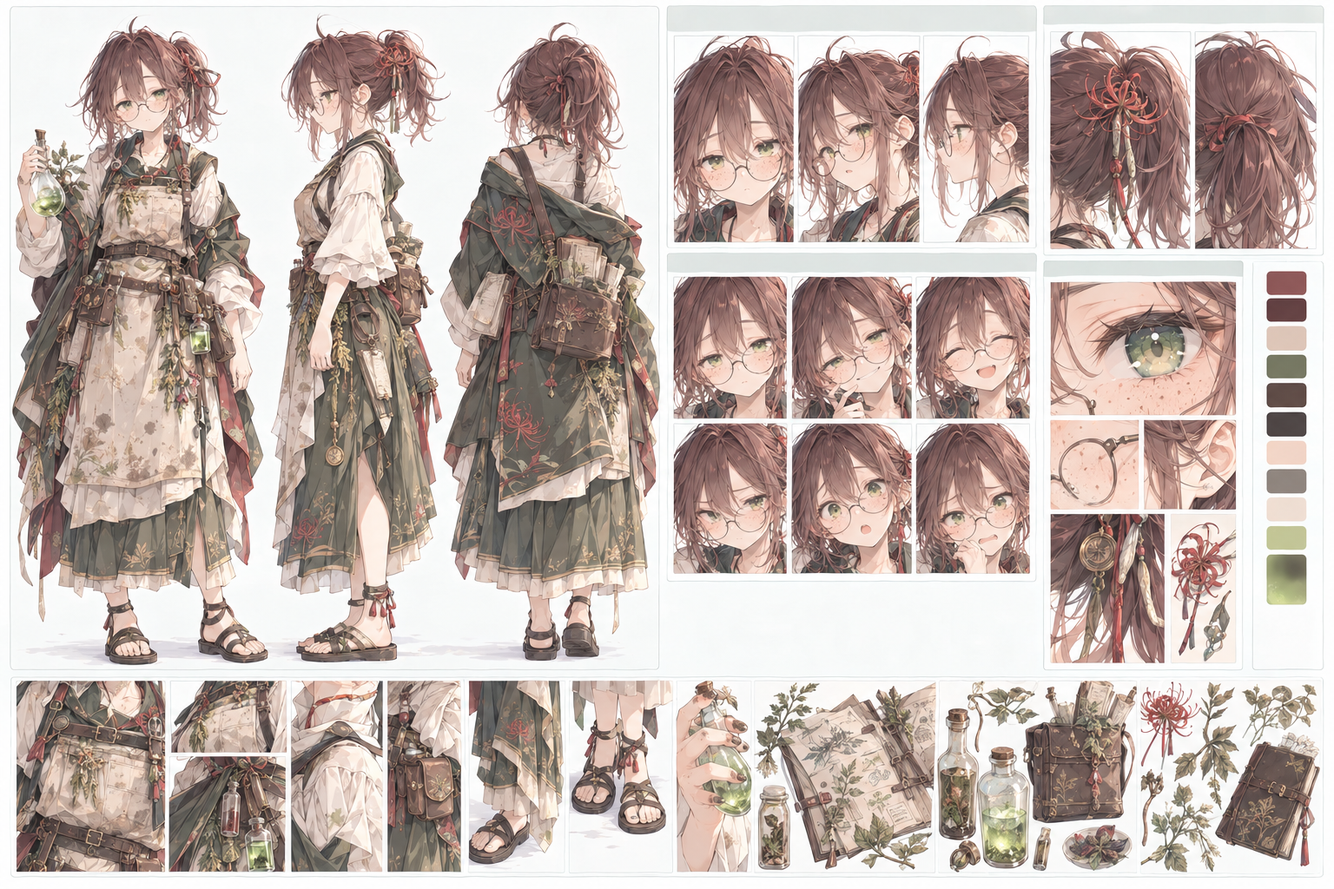
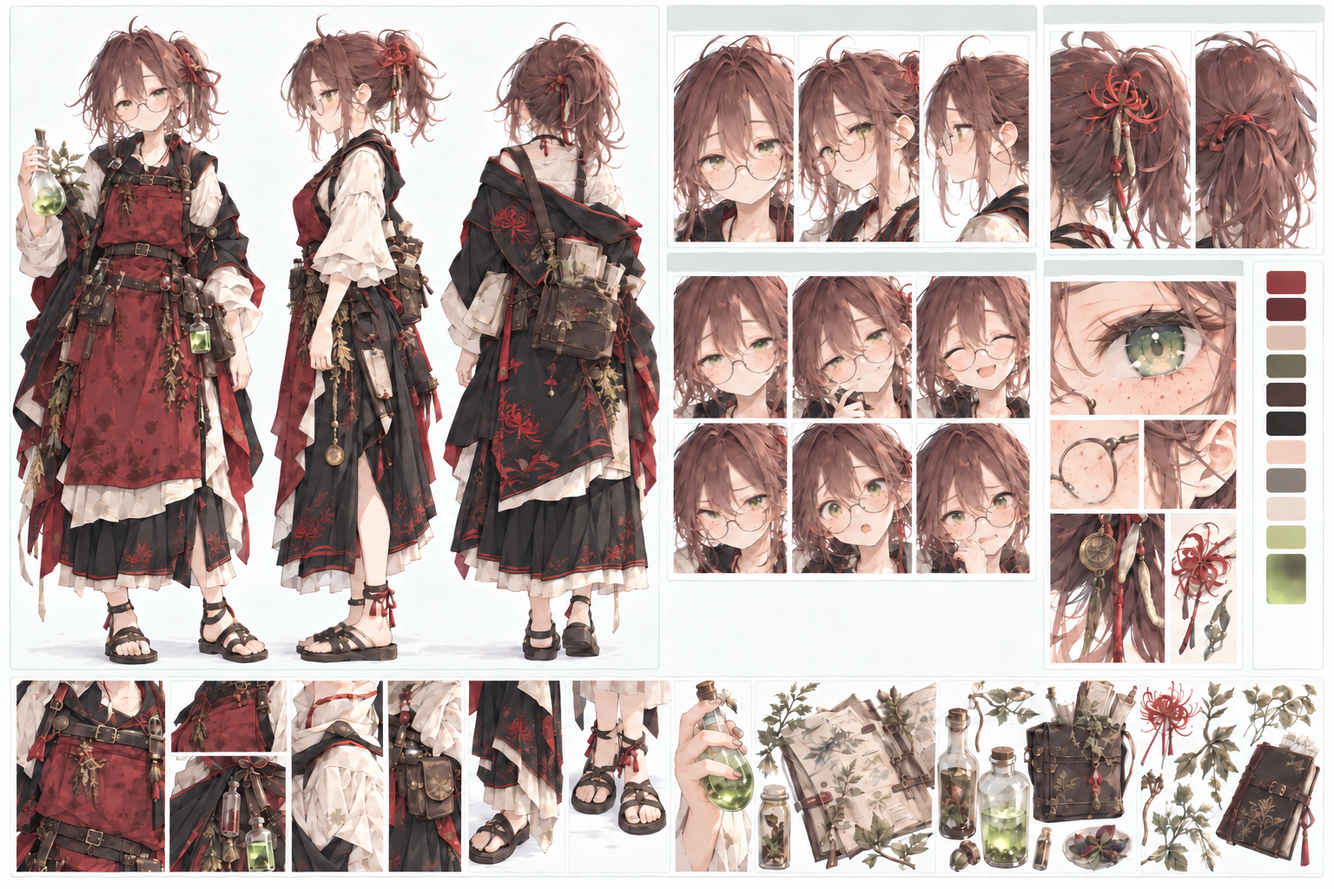
リコの衣装を赤・黒に統一し、第四章の採用スチル4枚を登録 (#171)
* art: unify Lico red-black palette and add chapter four still

* 第四章の採用スチル4枚と制作記録を揃える

diff --git a/docs/art/chapter-four-stills.md b/docs/art/chapter-four-stills.md
@@ -1,22 +1,50 @@
-# 第四章のスチル候補
+# 第四章のスチル制作
 
 [アート・音](README.md) · [スチル制作記録](story-art.md) · [第四章計画](../story/story-part-4.md) · [詳細台本](../story/chapter-four-script.md)
 
-制作候補。画像は未制作で、画像ファイル名・保存用シーンID・表示行番号はまだ割り当てない。第四章のゲーム実装時に、以下の動作へ到達したところから表示する。絵を先に見せて、登場や距離の変化を明かさない。
+優先する4場面すべてを採用し、原本・鑑賞用WebP・サムネイルを保存した。保存用シーンID・表示行番号はまだ割り当てず、第四章のゲーム実装時に、以下の動作へ到達したところから表示する。絵を先に見せて、登場や距離の変化を明かさない。
 
-## 優先する4場面
+## 4-7の採用画像
+
+![赤と黒の衣装のリコが苗の籠を抱えて道をふさぎ、食料を背負ったメリルが手を伸ばす。](../../public/stories/lico-protects-seedlings.webp)
+
+キャラクター紹介としても外見を読み取れるよう、構図候補01の二人の全身が見える横構図を採用。左にメリル、右にリコを置き、足元まで収める。リコは赤・黒の新しい衣装に揃え、メリルは太ももとふくらはぎの厚みを増した。背景に運搬路と荷車を残す。
+
+原本は `assets/source/stories/lico-protects-seedlings.png`（1536×1024）。[共通の制作記録](story-art.md#第四章のスチル制作)と[生成プロンプト・参照画像・ハッシュ](../art-generation/chapter-four-stills.json)を参照。ゲームの会話・アルバムにはまだ接続していない。
+
+## 4-4の採用画像：徹夜明けのミラ
+
+![宿の広間で、髪と服が乱れた徹夜明けのミラをフィンとアリアが心配する。](../../public/stories/mira-after-all-nighter.webp)
+
+構図02を基に再生成した屋内版v3を採用。ミラのほどけた髪、服の皺、疲れた顔と、心配する二人の表情を重視した。アリアは屋内の椅子を引き寄せる。原本は `assets/source/stories/mira-after-all-nighter.png`。
+
+## 4-4の採用画像：青い布の陰
+
+![アリアが右手で青い布を広げ、左腕をレオンの右腕へ回して身を寄せ、二人で通りをうかがう。](../../public/stories/blue-cloth-alley.webp)
+
+v13を採用。v9の腰上構図を保ち、右手は布、左腕はレオンの右腕へ回し、狭い陰に収まるための密着を見せる。二人は布の隙間へ視線を向け、レオンの戸惑いを残す。両肩の銀の防具と、淡く軽い髪の塗りを保つ。原本は `assets/source/stories/blue-cloth-alley.png`。
+
+## 4-9の採用画像：旅団結成
+
+![受付の机でアリアが旅団の登録書へ署名し、レオン、ミラ、フィン、リコが見守る。](../../public/stories/guild-formation.webp)
+
+構図04を採用。左手前のアリアが署名し、左奥のレオン、中央のミラ、右奥のフィン、右手前のリコが同じ書類を囲む。五人それぞれの表情と、隣り合う代表・副代表欄を重視する。リコは赤・黒の衣装。原本は `assets/source/stories/guild-formation.png`。
+
+以上の3枚も1536×1024。各採用版の生成プロンプト・参照画像・ハッシュは[共通の生成記録](../art-generation/chapter-four-stills.json)に保存する。
+
+## 採用した4場面
 
 | 場面 | 絵にする瞬間 | 構図・人物の演技 |
 | --- | --- | --- |
-| 4-7・苗を守るリコ | 「リコは籠を引き寄せ、胸に抱えてメリルの前へ立った」 | 苗の籠を抱えたリコが手前で通せんぼし、メリルがその向こうから籠を狙う。苗を守る真剣さと、食べ物へ向かうメリルの無邪気な視線を対置する。ほかの仲間の運搬路を背後に残し、リコが初めて彼らの側に立つことを伝える。メリルを耳へ襲いかかる姿や残虐な敵の顔にはしない |
-| 4-4・青い布の陰 | 「アリアの髪の先が、レオンの肩にかかる」 | 細い通路と干された青い布。袖を引いたアリアとレオンが同じ布の陰に収まり、普段より近い肩と、肩に触れる髪の先を見せる。路地の外へ視線を向けつつ互いの距離にも気づく間。抱擁や告白にはせず、布の隙間の荷車・御者で隠れた理由も読めるようにする |
-| 4-4・まだ大丈夫と言うミラ | 「フィンがミラの顔をのぞく。アリアは空いている椅子を引き寄せた」から、ミラの「私は、まだ大丈夫よ」 | 夜明けの宿の前。ミラは乱れた髪、落ちた肩、顔の疲れに対して目だけは冴え、次の往診メモへ手を伸ばしかける。フィンは顔をのぞいて眉を寄せ、アリアは椅子と鞄を気にかける。「大丈夫には見えない」という二人の心配を、嘲笑ではなく動作で見せる。倒れる姿や酔った赤ら顔にはしない。若い外見は採用設定を維持する |
+| 4-7・苗を守るリコ | 「リコは籠を引き寄せ、胸に抱えてメリルの前へ立った」 | 全身構図を採用。右のリコが苗の籠を抱えて通せんぼし、左のメリルが籠を狙う。苗を守る真剣さと、食べ物へ向かうメリルの無邪気な視線を対置する。ほかの仲間の運搬路を背後に残し、リコが初めて彼らの側に立つことを伝える。メリルを耳へ襲いかかる姿や残虐な敵の顔にはしない |
+| 4-4・青い布の陰 | 「アリアは右手で風に膨らんだ布を押さえ直し、彼の腕を抱き寄せたまま隙間をのぞく」 | v13を採用。細い通路と青い布の陰で、アリアの左腕がレオンの右腕を抱き寄せる。右手で布を広げて姿を隠し、二人とも外をうかがう。追跡中の近さへの戸惑いを見せ、告白の場面にはしない。両肩の防具、左右の手の向き、淡く軽い髪の塗りを保つ |
+| 4-4・まだ大丈夫と言うミラ | 「フィンがミラの顔をのぞく。アリアは空いている椅子を引き寄せた」から、ミラの「私は、まだ大丈夫よ」 | 屋内の構図02・再生成v3を採用。夜明け前の宿の玄関広間。ミラはほどけかけた髪、服の皺、落ちた肩、顔の疲れに対して目だけは冴え、次の往診メモへ手を伸ばしかける。フィンは顔をのぞいて眉を寄せ、アリアは椅子を引き寄せる。倒れる姿や酔った赤ら顔にはしない。若い外見は採用設定を維持する |
 | 4-9・星灯りの旅団の結成 | 「アリアが隣の代表者欄へ名前を書く」 | 受付の机を囲む五人。署名するアリア、その隣で筆先を見守るレオン、向こうから覗くミラとフィン、自分の記入欄を気にするリコ。主役は二人の並ぶ名前と、それを囲む五人が同じ集まりになる瞬間。名前決めを済ませて来た順序を守り、乾杯は同じ絵に混ぜない。書類は文字の正確な生成に依存せず、隣り合う欄と手の位置で意味を伝える。正式名「星灯りの旅団」は会話で読める |
 
 ## 描画時の共通事項
 
 - 外見は各人物の採用リファレンスを正とする：[アリア](../characters/aria.md)、[レオン](../characters/leon.md)、[ミラ](../characters/mira.md)、[フィン](../characters/finn.md)、[リコ](../characters/lico.md)、[メリル](../characters/merrill.md)。
-- リコはそばかす、丸眼鏡、小柄だが華奢すぎない体、作業用の前掛けとサンダルを保つ。メリルは頭から生える石榴の花と赤いリボン、左腕だけの琴のガントレットを保つ。
+- リコはそばかす、丸眼鏡、小柄だが華奢すぎない体、赤・黒基調の衣装、作業用の前掛けとサンダルを保つ。メリルは頭から生える石榴の花と赤いリボン、厚みのある太もも・ふくらはぎ、左腕だけの琴のガントレットを保つ。
 - 感情を説明する文字、ハート、吹き出しを絵へ足さない。アリアとレオンの親しさは視線・肩・手・距離で示す。
 - 制作・採用後にのみ、生成記録と共通の画像一覧・表示設定へ登録する。構図を実際の表示サイズで確認し、台本の動作と絵を一致させる。
 

diff --git a/docs/characters/lico.md b/docs/characters/lico.md
@@ -72,7 +72,7 @@
 
 ![リコのリファレンスシート](lico-reference-sheet.webp)
 
-ユーザー提供のリファレンスシートを外見・衣装の基準として採用する。全身の正面・側面・背面、顔の角度と表情、髪・瞳・衣装・手元・小物の拡大図、色見本を収める。提供PNGの1536×1024pxを維持し、画素を変えないロスレスWebPで保存した。
+ユーザー提供のリファレンスシートを基に、2026-09-25の指定で衣装を赤・黒基調へ更新した。全身の正面・側面・背面、顔の角度と表情、髪・瞳・衣装・手元・小物の拡大図、色見本を収める。配色更新後の1536×1024pxのPNGをロスレスWebPで保存した。顔立ち、そばかす、丸眼鏡、髪型、衣装の形は維持する。[配色更新の生成記録](../art-generation/lico-red-black-generation.json)を参照する。
 
 人物設定と表情の意図は、本資料に反映したユーザーの指定文を正とする。シートの整った顔や明るい笑顔だけを強めず、下記の素朴さと癖を保つ。
 
@@ -87,7 +87,7 @@
 
 - 髪は赤みのある暗い茶色〜くすんだ赤紫。短めのポニーテールを低め〜中くらいの位置で軽く結び、寝癖・後れ毛・跳ねた毛を残す。身なりには無頓着で、きっちり整えない。
 - 彼岸花を思わせる赤い髪飾り・結び紐・衣装の意匠を自然なアクセントにする。モチーフを増やしすぎて華美にしない。
-- 素朴でラフな薬草・錬金術師の服に、**作業用の前掛け（エプロン）**を着ける。野外採取と簡単な調薬の両方に合う実用的な装い。前掛けは多少の使用感に留め、薬のしみや汚れを強調しすぎない。
+- 素朴でラフな薬草・錬金術師の服に、**深紅の作業用の前掛け（エプロン）**を着ける。上着とスカートは炭黒、裏地・紐・彼岸花の刺繍は赤。生成りのブラウスと裾は補助色として残す。野外採取と簡単な調薬の両方に合う実用的な装い。前掛けは多少の使用感に留め、薬のしみや汚れを強調しすぎない。
 - 野外でもサンダル。露出は抑え、派手な高級感や貴族らしさは出さない。
 - 薬草・植物・毒・発光素材を扱う化学／植物系の錬金術師として描く。蒸留器などを自作できる設定は保つが、ゴーグル・重機械・背負う蒸留器を主役にした工学・機械技師の外見へ寄せない。
 
@@ -95,7 +95,7 @@
 
 - 小さな薬瓶・試薬瓶、植物片・植物標本、採取ノート、採取道具、薬草ポーチを優先する。機械工具より、発光する薬液や植物素材が似合う手元にする。
 - 薬草や薬剤をよく触る指先は少し乾いて荒れている。荒れを誇張しすぎない。
-- 基調は深紅・赤紫・生成り・焦げ茶・くすんだ緑。彼岸花の赤と毒・発光の黄緑を組み合わせ、発光する黄緑を差し色に使う。全体は落ち着かせ、派手なネオン感にはしない。
+- イメージカラーと衣装の基調は**赤・黒**。深紅の前掛けと炭黒の上着・スカートを大きな色面にし、赤い彼岸花の意匠を重ねる。生成りはブラウスなどの補助色、革小物は黒に近い焦げ茶。衣装を緑や生成り主体へ戻さない。黄緑は瞳と発光する薬液・素材の小さな差し色に使う。自然な染め布の落ち着きを保ち、派手なネオン感や貴族風の豪華さは出さない。
 - 武器と戦闘での役割は未設定。採取・研究の小物を、そのまま確定した武器として扱わない。
 
 ### 顔アイコン
@@ -106,7 +106,7 @@
 
 怪しい笑み `mischievous` は、興味をひかれたときに片側の口の端が上がる癖のある笑み。叫び `shouting` は、発見の瞬間に「あーーっ！」と急に声を上げ、目を見開き、大きく口を開ける顔。普通の驚き `surprised` と区別し、怒りや恐怖の叫びにはしない。文字は画像に入れず、台詞側で指定する。
 
-768×768px、3列×3行、1コマ256px角のWebP（品質82）。共通の `Portrait` と `expressionPortrait` からキャラID `lico` と表情を指定して使う。制作条件と丸メガネへの修正プロンプトは [生成記録](../art-generation/lico-expressions-generation.json) を参照する。
+768×768px、3列×3行、1コマ256px角のWebP（品質82）。共通の `Portrait` と `expressionPortrait` からキャラID `lico` と表情を指定して使う。襟元と肩の衣装も赤・黒に揃える。制作条件と丸メガネへの修正プロンプトは [初回の生成記録](../art-generation/lico-expressions-generation.json)、2026-09-25の衣装色更新は [配色更新の生成記録](../art-generation/lico-red-black-generation.json) を参照する。
 
 ## 関係性・関連する人物
 

diff --git a/docs/story/chapter-four-script.md b/docs/story/chapter-four-script.md
@@ -423,9 +423,9 @@
 
 ### 出発前 — 朝になっていた
 
-場所：宿の前、夜明け前。四人。
+場所：宿の玄関広間、夜明け前。四人。
 
-戻ってきたミラの髪は少し乱れ、肩が落ちている。目は冴えたままで、鞄から次の往診のメモを取り出しかけた。
+戻ってきたミラの髪はほどけかけ、服には一晩の往診でついた皺が残っている。肩は落ちているのに目は冴えたままで、鞄から次の往診のメモを取り出しかけた。
 
 アリア：ミラ、もう起きてたの？
 
@@ -465,13 +465,13 @@
 
 アリア：うん、その先に……あ、苔が落ちた。
 
-御者が振り返った。アリアはレオンの袖を引き、細い通路へ入る。干してある青い布の陰で、二人とも足を止めた。アリアの髪の先が、レオンの肩にかかる。
+御者が振り返った。アリアはレオンの袖を引き、細い通路へ入る。干してある青い布の陰で、二人とも足を止めた。アリアは右手で布の端を少し広げ、左腕をレオンの右腕に回す。狭い陰へ収まろうと身を寄せると、髪の先が彼の肩にかかった。
 
-アリアが顔を上げると、すぐ近くでレオンと目が合った。二人とも通りへ目を戻すのが一拍遅れる。アリアは袖から手を離し、風で膨らんだ布の端を押さえた。レオンはその向こうから荷車を探す。
+アリアが顔を上げると、すぐ近くでレオンと目が合った。二人とも通りへ目を戻すのが一拍遅れる。アリアは右手で風に膨らんだ布を押さえ直し、彼の腕を抱き寄せたまま隙間をのぞく。レオンも少し頬を熱くして、その向こうから荷車を探す。
 
 レオン：……もう、行った。
 
-通路の入り口に落ちた苔の欠片を、アリアが拾い上げる。葉の形を確かめている間に、車輪の音は角の向こうへ消えた。
+アリアはレオンの腕を放し、通路の入り口に落ちた苔の欠片を拾い上げる。葉の形を確かめている間に、車輪の音は角の向こうへ消えた。
 
 レオン：アリア。この先は石畳だ。車輪の跡が消えてる。
 

diff --git a/docs/art/story-art.md b/docs/art/story-art.md
@@ -8,9 +8,20 @@
 
 `npm run dev` と `npm run build` の開始前にも生成する。新しい絵を追加したら元 PNG・両 WebP・manifest を一緒にコミットし、鑑賞画面で構図を確認する。`npm run stills:check` はファイルを変えずに再生成の要否を調べ、CI でも実行する。保存されるのはシーン ID の既読情報で、画像パスの変更では `story.read` を変更しない。
 
-## 第四章の制作候補
+## 第四章のスチル制作
 
-[第四章のスチル候補](chapter-four-stills.md) に、苗を守るリコ、青い布の陰の二人、徹夜したミラを心配する二人、旅団結成の4場面をまとめた。画像は未制作。候補と採用画像を区別し、生成や表示登録は制作時に行う。
+[第四章のスチル制作](chapter-four-stills.md) に、苗を守るリコ、青い布の陰の二人、徹夜したミラを心配する二人、旅団結成の4場面をまとめた。
+
+4場面すべてを採用した。原本は1536×1024のPNGで、共通パイプラインから鑑賞用WebPと320×320のサムネイルを生成する。制作ツールは組み込み `image_gen`。[画像一覧](story-art-gallery.md#第四章の一枚絵)と[最終プロンプト・参照画像・ハッシュ](../art-generation/chapter-four-stills.json)を参照する。
+
+| 原本（`assets/source/stories/`） | 場面 | 採用版 |
+| --- | --- | --- |
+| `lico-protects-seedlings.png` | 4-7・苗を守るリコ | 全身構図01。リコは赤・黒の衣装、メリルの脚に厚みを持たせた版 |
+| `mira-after-all-nighter.png` | 4-4・徹夜明けのミラ | 構図02の屋内版・新規生成v3。髪と服の乱れ、心配する二人の表情 |
+| `blue-cloth-alley.png` | 4-4・青い布の陰 | v13。右手で布、左腕でレオンの右腕を抱き寄せる。淡い髪と両肩の防具 |
+| `guild-formation.png` | 4-9・旅団結成 | 構図04。署名するアリアを四人が囲む |
+
+ゲームの会話・アルバムへの表示登録は第四章の本編実装時に行う。現時点ではシーンID・表示行を割り当てない。
 
 ## 第三章：食堂、手当て、四人のお茶
 

diff --git a/docs/characters/merrill.md b/docs/characters/merrill.md
@@ -31,7 +31,7 @@
 
 ## 外見の設定（採用）
 
-- **外見年齢・体格**：見た目の年齢は、人間でいうと14〜15歳程度。身長は148cm程度の小柄な少女。脚は細くせず、太もも・ふくらはぎに丸みと厚みのある、むっちりと健康的な体つきにする。森を歩き回る旅人らしい足腰。実年齢は未設定で、外見年齢から種族の加齢を決めない。
+- **外見年齢・体格**：見た目の年齢は、人間でいうと14〜15歳程度。身長は148cm程度の小柄な少女。脚は細くせず、太もも・ふくらはぎの両方に丸みと厚みのある、むっちりと健康的な体つきにする。全身の一枚絵でもこの厚みが分かるようにし、身長や脚の長さを伸ばして細身に見せない。森を歩き回る旅人らしい足腰。実年齢は未設定で、外見年齢から種族の加齢を決めない。
 - **髪・顔**：緑の短めのボブ。毛先は少し不揃いに外へ跳ねる。緑の瞳と、幼さの残るやわらかな顔立ち。表情は無邪気で好奇心が強く、食べ物を見つけると目が向く。見た目の親しみやすさで、悪食や敵役としての性格を薄めない。
 - **衣装・配色**：上着を羽織った採集・旅装。生成りのブラウスに、くすんだ緑〜灰緑の短いフード付き上着、濃色のショートパンツを合わせる。腰には茶色の革ベルトと採集用ポーチ、足元には丈夫な編み上げブーツ。緑・生成り・茶を基調に、リボン・紐などへ石榴の赤を差す。
 - **荷物**：小柄な体に対して大きな背負い袋を持ち、荷物の主役はキノコや肉などの食べ物。パン・木の実・果実なども詰め、袋や網から食料がのぞく。旅の必需品より食べ物が多いと一目で分かるシルエットにする。肉には魔物の肉も含み得るが、腐敗や血汚れを目立たせず、包みや袋で持ち歩く。

diff --git a/docs/art/story-art-gallery.md b/docs/art/story-art-gallery.md
@@ -2,6 +2,28 @@
 
 案内：[アート・音](README.md)
 
+## 第四章の一枚絵
+
+4場面の採用素材。ゲームへの接続は第四章の実装時に行う。[制作条件](chapter-four-stills.md)と[生成記録](../art-generation/chapter-four-stills.json)を参照。
+
+### 4-7：苗を守るリコ
+
+![赤と黒の衣装のリコが苗の籠を抱えて道をふさぎ、食料を背負ったメリルが手を伸ばす。](../../public/stories/lico-protects-seedlings.webp)
+
+第四章4-7向けの採用素材。人物紹介を兼ねた全身構図で、右のリコが苗を守り、左のメリルが狙う。ゲームの会話・アルバムへの接続は第四章の実装時に行う。[制作条件](chapter-four-stills.md#4-7の採用画像)と[生成記録](../art-generation/chapter-four-stills.json)を参照する。
+
+### 4-4：徹夜明けのミラ
+
+![宿の玄関広間で、髪と服が乱れた徹夜明けのミラをフィンとアリアが心配する。](../../public/stories/mira-after-all-nighter.webp)
+
+### 4-4：青い布の陰
+
+![アリアが右手で布を広げ、左腕をレオンの右腕へ回して身を寄せ、二人で隙間をのぞく。](../../public/stories/blue-cloth-alley.webp)
+
+### 4-9：旅団結成
+
+![アリアが旅団の登録書へ署名し、レオン、ミラ、フィン、リコが机を囲んで見守る。](../../public/stories/guild-formation.webp)
+
 ## 薬を待つ家々
 
 ![薬と蜜の配達](../../public/stories/medicine-delivered.webp)

diff --git a/docs/story/story-part-4.md b/docs/story/story-part-4.md
@@ -190,7 +190,7 @@
 
 ## 演出と今後決めること
 
-- 一枚絵は [第四章のスチル候補](../art/chapter-four-stills.md) にまとめる。今回の優先候補は、4-7の苗を守るリコ、4-4の青い布の陰の二人、4-4の徹夜したミラと心配するフィン・アリア、4-9の旅団結成の4枚。幕間の胡桃の菓子は追加候補として残す。画像はまだ制作・登録していない。
+- 一枚絵は [第四章のスチル制作](../art/chapter-four-stills.md) にまとめる。採用済みの場面は、4-7の苗を守るリコ、4-4の青い布の陰の二人、4-4の徹夜したミラと心配するフィン・アリア、4-9の旅団結成の4枚。幕間の胡桃の菓子は追加候補として残す。採用画像と制作条件は同資料を参照する。
 - 二人だけの時間は、冒頭の幕間、追跡中の青い布の陰、拠点の場面に置く。フィン・ミラ・リコに恋心を解説させない。
 - 第一章の交易先の名前は「リンデ」。旅団名「星灯りの旅団」と醸造の町の名前「ブレッカ」は制作案として置いた。商人の名前は未設定。商人は注文控えと被害の連絡に対して仕入れ競争を言い訳にする人物として台本化し、より大きな組織とのつながりは付けない。
 - [Issue #78](https://github.com/upu/starlit-guild/issues/78) の印の似かよりは、第四章では扱わない。

diff --git a/docs/art/README.md b/docs/art/README.md
@@ -8,7 +8,7 @@
 | --- | --- |
 | [背景画像](background-images.md) | クエスト背景の原本・配信、場所ごとの制作記録、タイトル背景 |
 | [人物画像](character-images.md) | 設定図、立ち絵、表情、動作画像、敵の戦闘画像 |
-| [スチル制作記録](story-art.md) / [一覧](story-art-gallery.md) / [第四章の候補](chapter-four-stills.md) | 物語の一枚絵、場面別の生成条件と採用画像、未制作の候補 |
+| [スチル制作記録](story-art.md) / [一覧](story-art-gallery.md) / [第四章の制作](chapter-four-stills.md) | 物語の一枚絵、場面別の生成条件と採用画像、未制作の候補 |
 | [動画素材](story-videos.md) | 元動画、配信用MP4、ゲーム内の再生 |
 | [アイコン・演出](icons-and-effects.md) | ナビゲーション、クエスト・お店、発見アイテム、戦闘演出 |
 | [音楽と効果音](audio.md) | BGM・効果音の仕様、生成と配信 |
